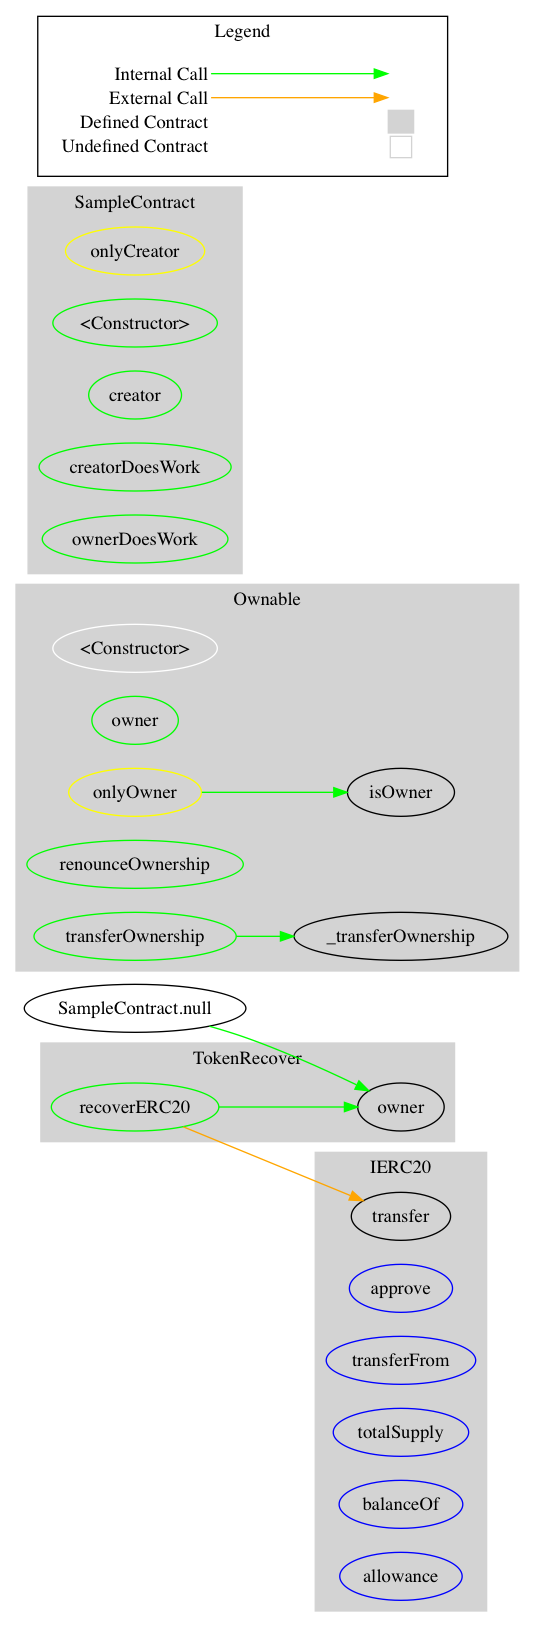
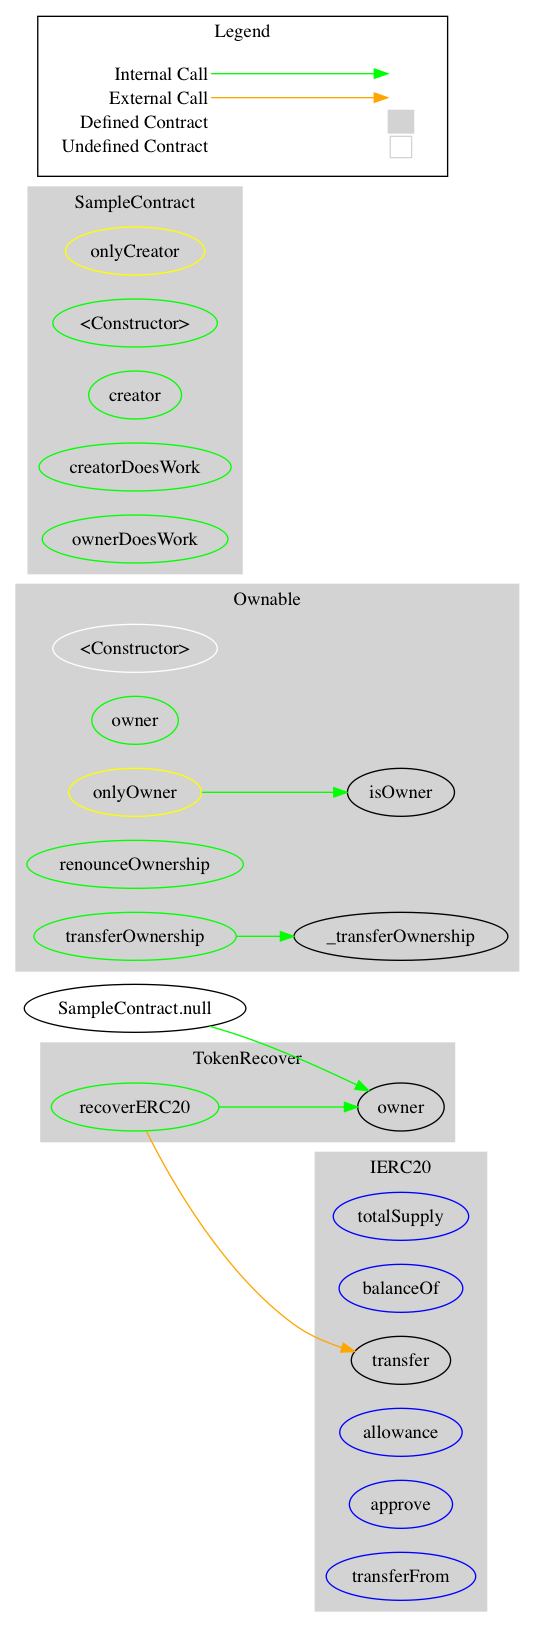
updated to solc 0.5.9

Changed region(s): [[0.628, 0.7068, 0.8673, 0.9834]]

diff --git a/truffle-config.js b/truffle-config.js
@@ -1,7 +1,7 @@
 require('chai/register-should');
 
 const solcStable = {
-  version: '0.5.8',
+  version: '0.5.9',
   settings: {
     optimizer: {
       enabled: true,

diff --git a/analysis/description-table/SampleContract.md b/analysis/description-table/SampleContract.md
@@ -5,7 +5,7 @@
 
 |  File Name  |  SHA-1 Hash  |
 |-------------|--------------|
-| dist/SampleContract.dist.sol | 5e76c3a27c91fb5c39a218e63618ae6382af565b |
+| dist/SampleContract.dist.sol | 855c50e320bfff70eecb195df086b23abe213f5d |
 
 
 ### Contracts Description Table
@@ -16,12 +16,12 @@
 |     └      |  **Function Name**  |  **Visibility**  |  **Mutability**  |  **Modifiers**  |
 ||||||
 | **IERC20** | Interface |  |||
-| └ | transfer | External ❗ | 🛑  |NO❗ |
-| └ | approve | External ❗ | 🛑  |NO❗ |
-| └ | transferFrom | External ❗ | 🛑  |NO❗ |
 | └ | totalSupply | External ❗ |   |NO❗ |
 | └ | balanceOf | External ❗ |   |NO❗ |
+| └ | transfer | External ❗ | 🛑  |NO❗ |
 | └ | allowance | External ❗ |   |NO❗ |
+| └ | approve | External ❗ | 🛑  |NO❗ |
+| └ | transferFrom | External ❗ | 🛑  |NO❗ |
 ||||||
 | **Ownable** | Implementation |  |||
 | └ | \<Constructor\> | Internal 🔒 | 🛑  | |
